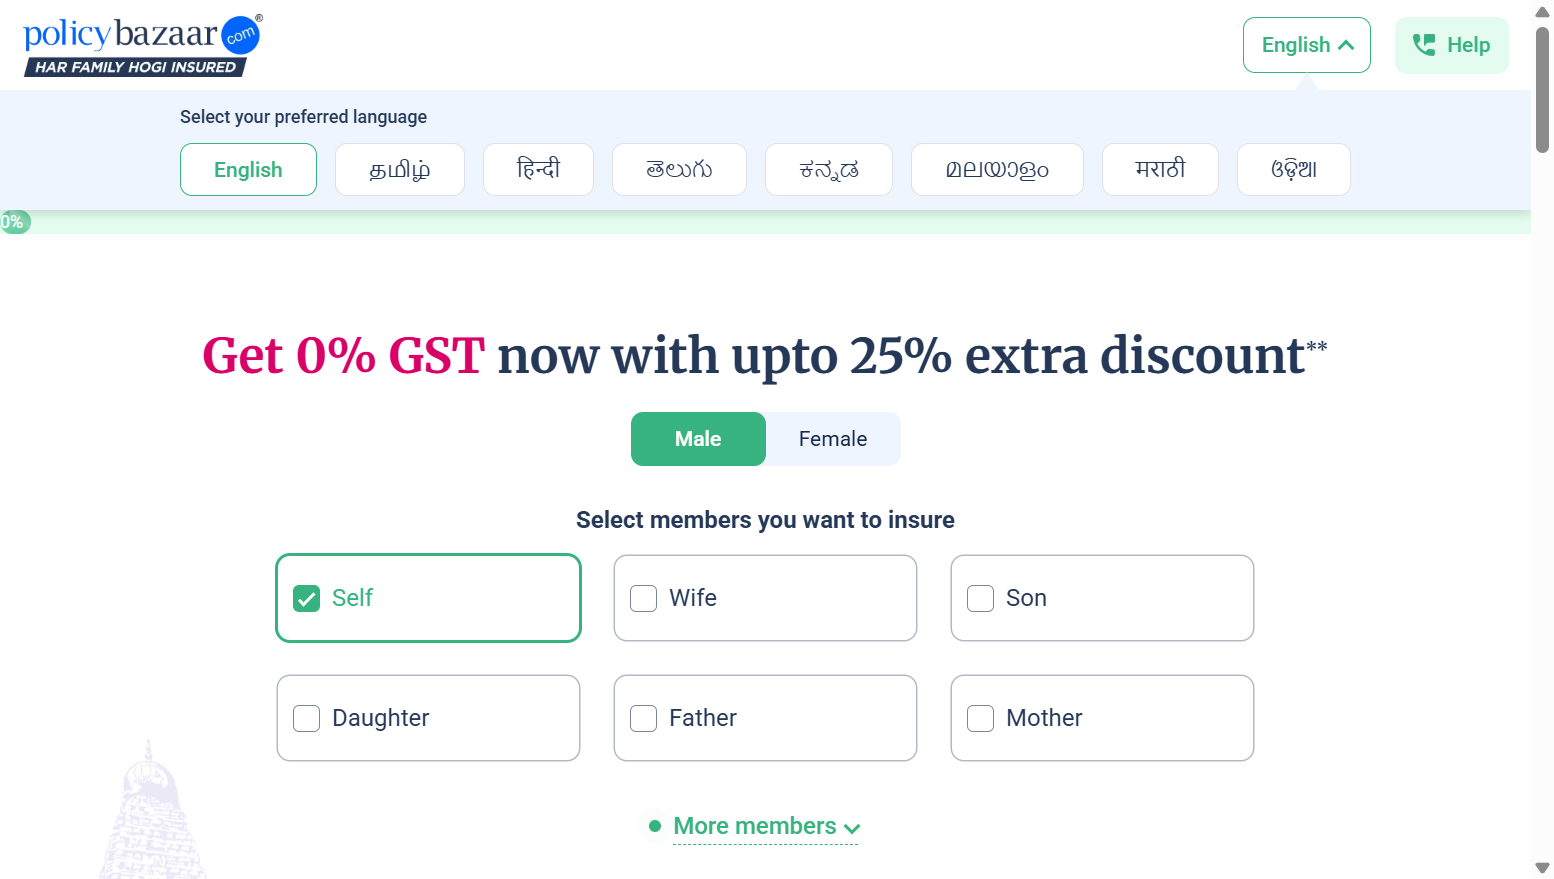
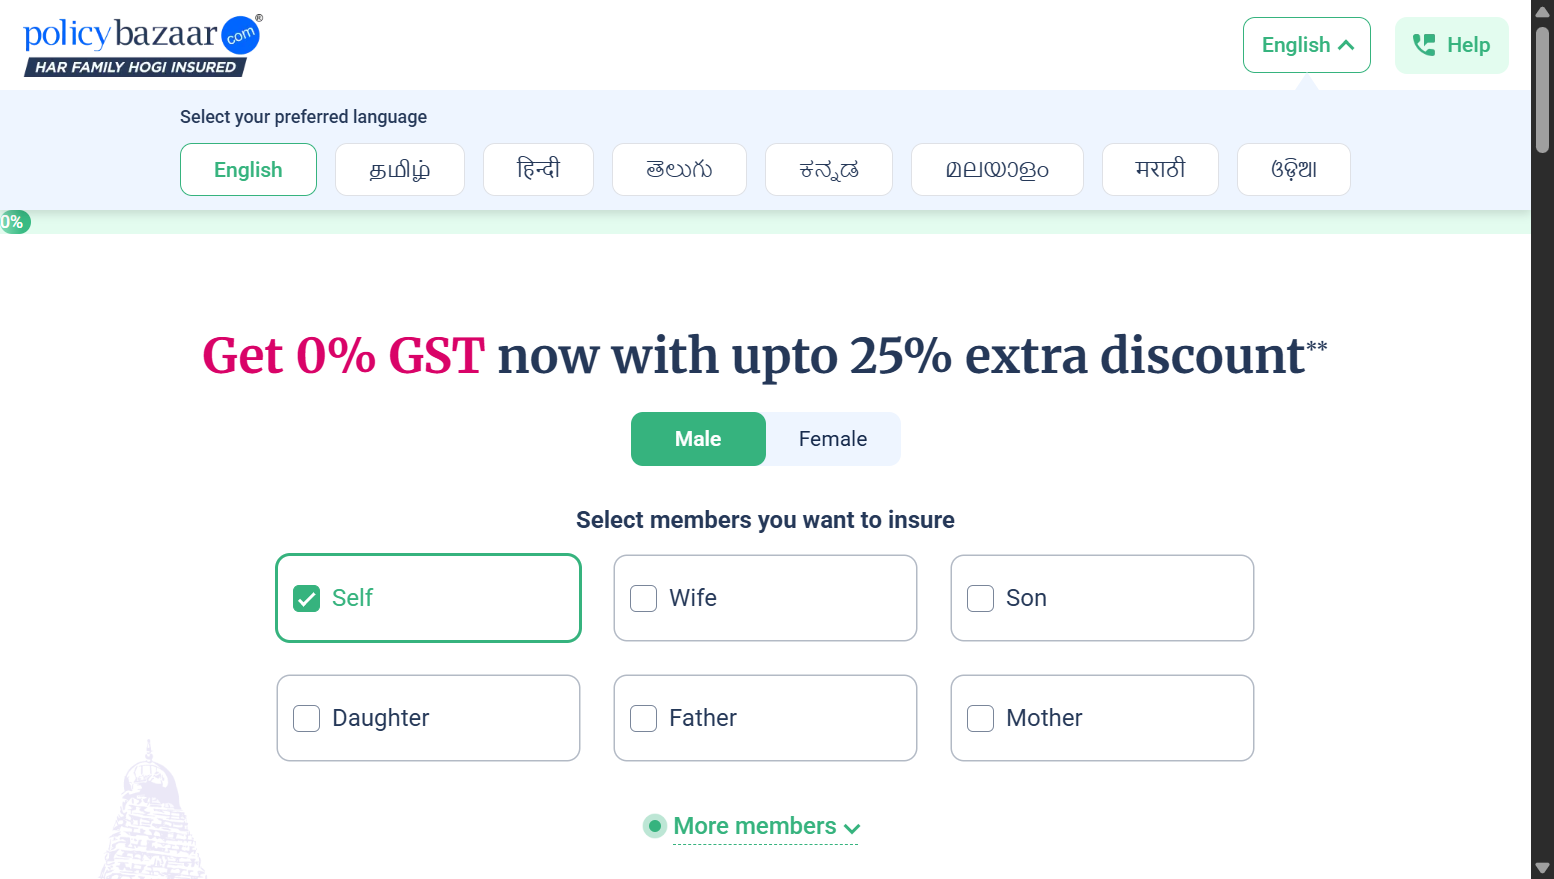
Cleared errors o health insurance module

Changed region(s): [[0.9575, 0.0, 1.0, 1.0], [0.4015, 0.9215, 0.4324, 0.9522], [0.0, 0.2457, 0.0309, 0.2765]]

diff --git a/src/main/java/Pages/HealthInsurancePage.java b/src/main/java/Pages/HealthInsurancePage.java
@@ -1,12 +1,17 @@
 package Pages;
 
 
+import java.time.Duration;
 import java.util.ArrayList;
+import java.util.HashMap;
 import java.util.List;
+import java.util.Map;
 
 import org.openqa.selenium.By;
 import org.openqa.selenium.WebDriver;
 import org.openqa.selenium.WebElement;
+import org.openqa.selenium.support.ui.ExpectedConditions;
+import org.openqa.selenium.support.ui.WebDriverWait;
 
 
 public class HealthInsurancePage {
@@ -22,7 +27,7 @@ public class HealthInsurancePage {
 	        driver.get(healthUrl);
 	        Thread.sleep(4000);
 	        String currentUrl = driver.getCurrentUrl();
-	        return currentUrl.contains("health-insurance");
+	        return currentUrl.contains("health.policybazaar.com");
 	    }
 
 	    //Checking visibility of menu items
@@ -33,15 +38,51 @@ public class HealthInsurancePage {
 
 	    //Extracting and storing menu items in list
 	    public List<String> extractHealthInsuranceMenu() {
+	        WebDriverWait wait = new WebDriverWait(driver, Duration.ofSeconds(10));
+	        
+	        // Wait until tab items are visible
+	        wait.until(ExpectedConditions.visibilityOfElementLocated(
+	            By.xpath("//ul[contains(@class,'_topPlansWrapper__tabContainer__tabItem')]/li")
+	        ));
+	        
+	        List<WebElement> tabs = driver.findElements(
+	            By.xpath("//ul[contains(@class,'_topPlansWrapper__tabContainer__tabItem')]/li")
+	        );
+	        
 	        List<String> list = new ArrayList<>();
-
-	        for (WebElement item : menuItems) {
-	            String text = item.getText().trim();
+	        for (WebElement tab : tabs) {
+	            String text = tab.getText().trim();
 	            if (!text.isEmpty()) {
 	                list.add(text);
 	            }
 	        }
 	        return list;
+	    }
+	    
+	    //Extracting items for each type of plan
+	    public Map<String, List<String>> extractAllTabPlans()throws InterruptedException {
+	        Map<String, List<String>> allPlans = new HashMap<>();
+	        
+	        WebDriverWait wait = new WebDriverWait(driver, Duration.ofSeconds(15));
+	        List<WebElement> tabs = driver.findElements(By.xpath("//ul[contains(@class,'tabContainer__tabItem')]/li"));
+	        for (WebElement tab : tabs) {
+	            String tabName = tab.getText().trim();
+	            tab.click();
+	            Thread.sleep(3000);
+	            wait.until(ExpectedConditions.invisibilityOfElementLocated(By.xpath("//b[contains(@class,'_loader')]")));
+	            List<WebElement> planElements = driver.findElements(By.xpath("//div[contains(@class,'leftCol__row1')]/p[1]"));
+	            
+	            List<String> plans = new ArrayList<>();
+	            for (WebElement plan : planElements) {
+	                String name = plan.getText().trim();
+	                if (!name.isEmpty()) {
+	                    plans.add(name);
+	                }
+	            }
+	            allPlans.put(tabName, plans);
+	            System.out.println(tabName + ": " + plans);
+	        }
+	        return allPlans;
 	    }
 
 	    //Displaying extracted items

diff --git a/src/test/java/Tests/HealthInsuranceTest.java b/src/test/java/Tests/HealthInsuranceTest.java
@@ -1,10 +1,18 @@
 package Tests;
 
 import java.io.IOException;
+import java.time.Duration;
+import java.util.ArrayList;
+import java.util.HashMap;
 import java.util.List;
+import java.util.Map;
 
+import org.openqa.selenium.By;
+import org.openqa.selenium.JavascriptExecutor;
 import org.openqa.selenium.WebDriver;
+import org.openqa.selenium.WebElement;
 import org.openqa.selenium.chrome.ChromeDriver;
+import org.openqa.selenium.support.ui.WebDriverWait;
 import org.testng.Assert;
 import org.testng.annotations.Test;
 
@@ -80,8 +88,41 @@ public class HealthInsuranceTest {
 	        Assert.assertTrue(extractedList.size() > 0, "No data to display");
 	        System.out.println("All items displayed successfully");
 	    }
+	    
+	    //Displaying items for each type of plan
+	    @Test(dependsOnMethods="displayOfExtractedItem")
+	    public void extractPlanNamesForEachTab() throws InterruptedException {
+	        Map<String, List<String>> allPlans = new HashMap<>();
+	        JavascriptExecutor js = (JavascriptExecutor) driver;
+
+	        List<WebElement> tabs = driver.findElements(By.xpath("//ul[contains(@class,'tabContainer__tabItem')]/li"));
+
+	        for (int i = 0; i < tabs.size(); i++) {
+	        	tabs = driver.findElements(By.xpath("//ul[contains(@class,'tabContainer__tabItem')]/li"));
+	            String tabName = tabs.get(i).getText();
+	            js.executeScript("arguments[0].scrollIntoView(true);", tabs.get(i));
+	            Thread.sleep(1000);
+	            js.executeScript("arguments[0].click();", tabs.get(i));
+	            Thread.sleep(4000);
+	            List<WebElement> planElements = driver.findElements(By.xpath("//div[contains(@class,'leftCol__row1')]/p[1]"));
+	            List<String> plans = new ArrayList<>();
+	            for (WebElement plan : planElements) {
+	                String name = plan.getText().trim();
+	                if (!name.isEmpty()) {
+	                    plans.add(name);
+	                }
+	            }
+	            allPlans.put(tabName, plans);
+	            System.out.println("\nTab: " + tabName);
+	            for (String plan : plans) {
+	                System.out.println("  - " + plan);
+	            }
+	        }
+
+	        Assert.assertTrue(allPlans.size() > 0, "No tabs found");
+	    }
 	
-	@Test(dependsOnMethods="displayOfExtractedItem")
+	@Test(dependsOnMethods="extractPlanNamesForEachTab")
 	public void tearDown() {
 		driver.quit();
 	